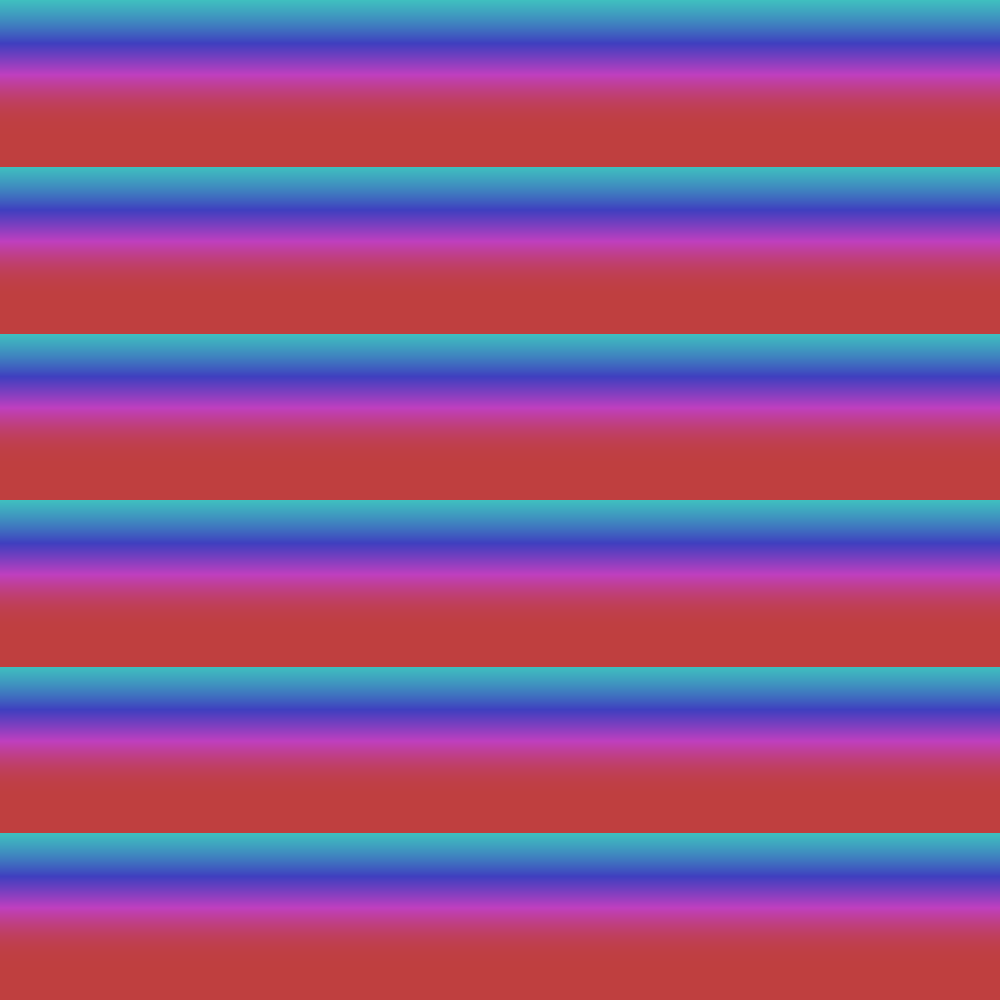
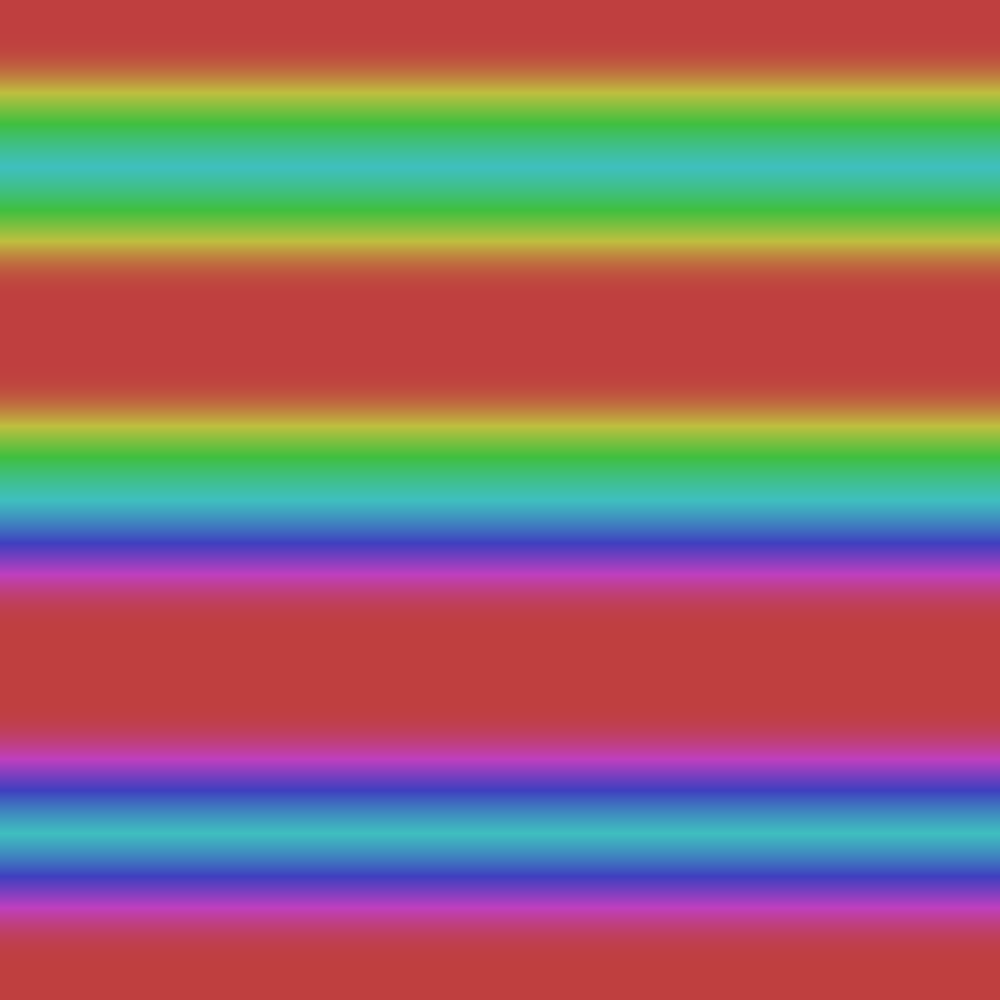
Git commit coriolis more. Nearly there. Angles aren't being encoded correctly?

diff --git a/src/main/java/me/alexng/worldGen/pipeline/pipes/CoriolisPipeWorder.java b/src/main/java/me/alexng/worldGen/pipeline/pipes/CoriolisPipeWorder.java
@@ -13,24 +13,42 @@ import me.alexng.worldGen.sampler.Sampler;
 public class CoriolisPipeWorder implements PipeWorker {
 
     private static final int NUM_BANDS = 6;
-    private int totalHeight = 0;
     private int bandWidth = 0;
 
     @Override
     public void setup(int seed, Sampler sampler) {
-        totalHeight = getTotalHeight(sampler);
-        bandWidth = totalHeight / NUM_BANDS;
+        bandWidth = getTotalHeight(sampler) / NUM_BANDS;
     }
 
     @Producer(name = "coriolis", stored = true)
     public float process(Point point) {
         int y = getY(point);
-        float d = y % bandWidth / ((float) bandWidth);
-        Vector2f in = new Vector2f(0.0f, 1.0f).mul(d);
-        Vector2f out = new Vector2f(1.0f, 0.0f).mul(1 - d);
-        in.add(out).normalize();
-        return (float) Math.tanh(in.y / in.x);
-        // return ((float) Math.sin(getY(point) % bandWidth / ((float) bandWidth) * Math.PI * 2));
+        int bandIndex = y / bandWidth;
+        float d = (y % bandWidth) / ((float) bandWidth);
+        Vector2f output;
+        switch (bandIndex) {
+            case 0:
+                output = new Vector2f(-1.0f, 0.0f).mul(d).add(new Vector2f(0.0f, 1.0f).mul(1 - d)).normalize();
+                break;
+            case 1:
+                output = new Vector2f(1.0f, 0.0f).mul(1 - d).add(new Vector2f(0.0f, -1.0f).mul(d)).normalize();
+                break;
+            case 2:
+                output = new Vector2f(-1.0f, 0.0f).mul(d).add(new Vector2f(0.0f, 1.0f).mul(1 - d)).normalize();
+                break;
+            case 3:
+                output = new Vector2f(-1.0f, 0.0f).mul(1 - d).add(new Vector2f(0.0f, -1.0f).mul(d)).normalize();
+                break;
+            case 4:
+                output = new Vector2f(1.0f, 0.0f).mul(d).add(new Vector2f(0.0f, 1.0f).mul(1 - d)).normalize();
+                break;
+            case 5:
+                output = new Vector2f(-1.0f, 0.0f).mul(1 - d).add(new Vector2f(0.0f, -1.0f).mul(d)).normalize();
+                break;
+            default:
+                throw new RuntimeException("Invalid band");
+        }
+        return (float) Math.tanh(output.y / output.x);
     }
 
     private int getTotalHeight(Sampler sampler) {

diff --git a/src/main/java/me/alexng/worldGen/Main.java b/src/main/java/me/alexng/worldGen/Main.java
@@ -28,9 +28,28 @@ public class Main {
 
 		writeMapDataToPng(width, height, resultMap.get("biome"), ColorMaps.BIOME_MAP, "maps/biome.png");
 		writeMapDataToPng(width, height, resultMap.get("coriolis"), ColorMaps.HSL_SCALE, "maps/coriolis.png");
+		writeMapDataToPng(width, height, resultMap.get("coriolis"), ColorMaps.GREY_SCALE, "maps/coriolis_grey.png");
+
+		float[] c = resultMap.get("coriolis");
+		int numPoints = 100;
+		int d = 1000 / numPoints;
+		for (int i = 0; i < numPoints; i++) {
+			System.out.println(i * d + ":\n\t" + c[i * d * 1000] + "\n\t" + angularDist(0f, ((float) Math.toDegrees(c[i * d * 1000] * Math.PI)) + 180f));
+		}
 
 		System.out.println("Writing: " + (System.nanoTime() - writingStart) / 1000000000f + "s");
 	}
+
+	/*
+     * Given 2 angles between 0, 360
+     */
+    private static float angularDist(float x, float y) {
+        float a = Math.abs(x - y);
+		if (a < 180) {
+			return a;
+		}
+		return 360 - a;
+    }
 
 	private static void writeMapDataToPng(int width, int height, float[] rawData, ColorMaps.ColorMap colorMap, String outputPath) throws IOException {
 		MemoryImageSource imageSource = new MemoryImageSource(width, height, colorMap.packToPixels(rawData), 0, width);

diff --git a/src/main/java/me/alexng/worldGen/sampler/PlanePoint.java b/src/main/java/me/alexng/worldGen/sampler/PlanePoint.java
@@ -2,6 +2,7 @@ package me.alexng.worldGen.sampler;
 
 import me.alexng.worldGen.FastNoiseLite;
 
+// (0, 0) being top left
 public class PlanePoint implements Point {
 
 	private final int x, y, index;
